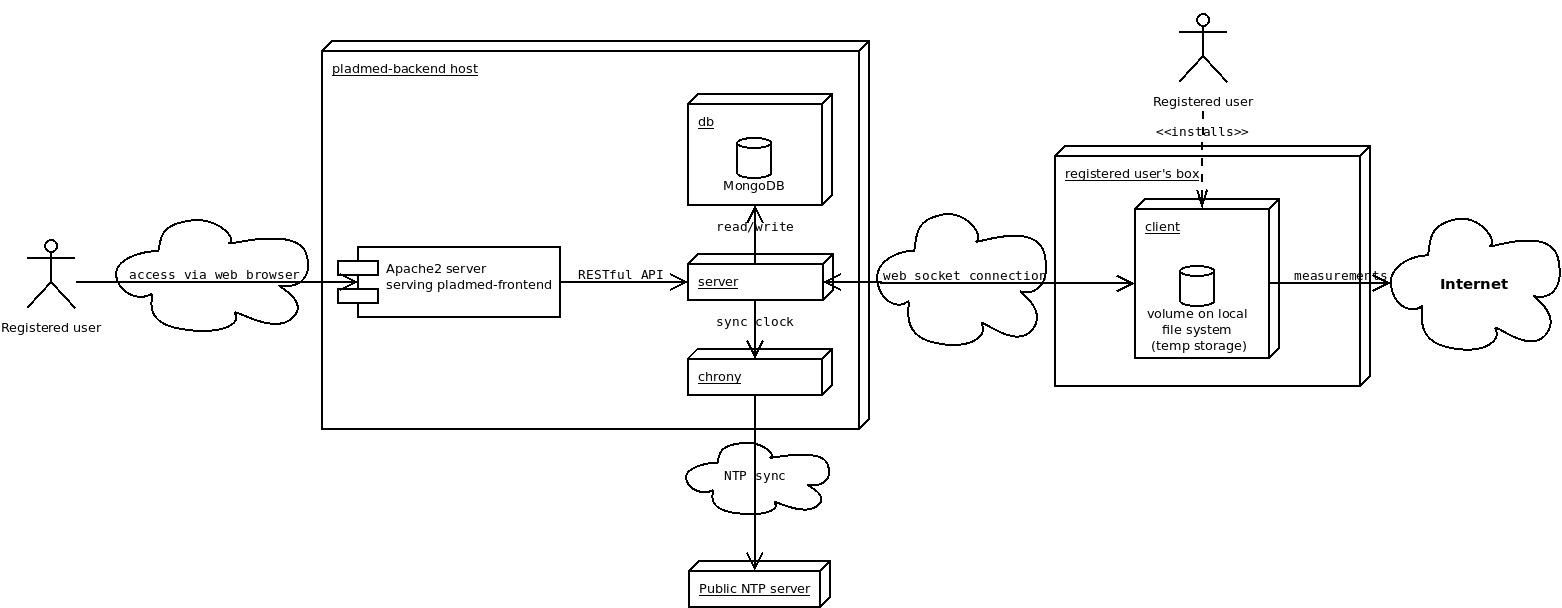
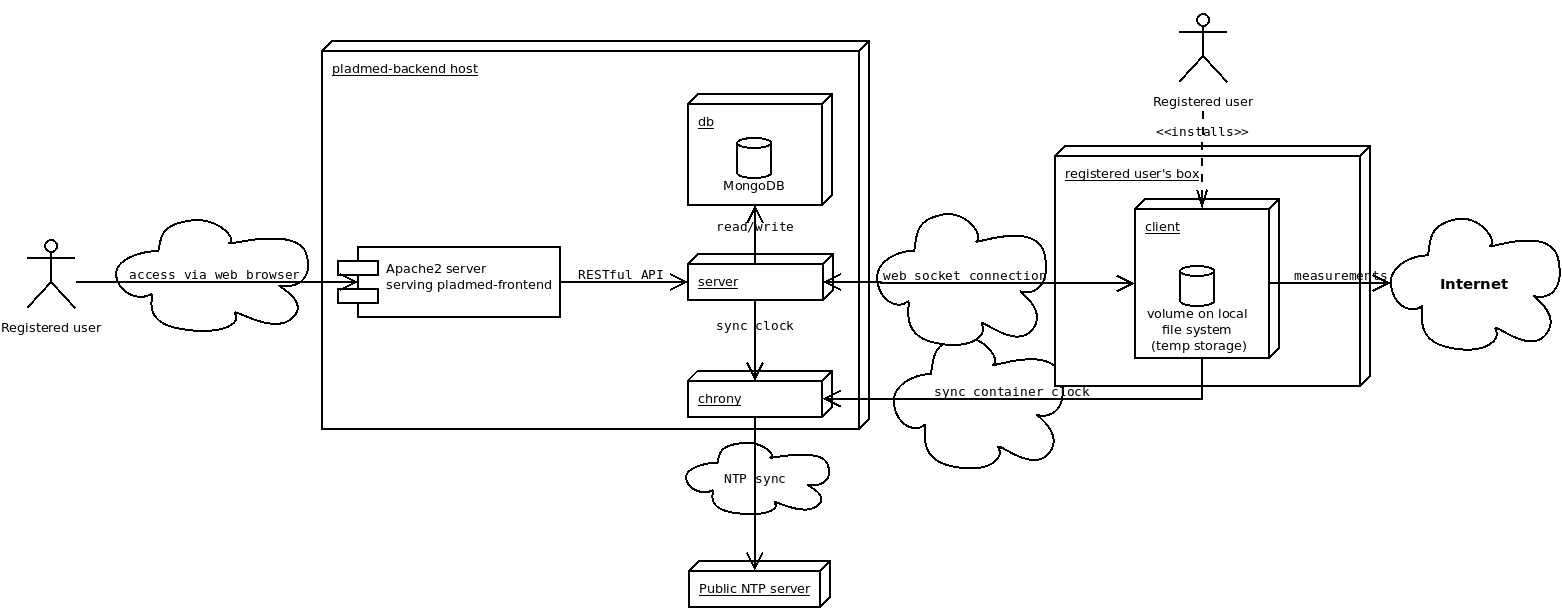
Improve deployment diagram

Changed region(s): [[0.4302, 0.5312, 0.5531, 0.6875], [0.5839, 0.625, 0.7068, 0.6875], [0.4609, 0.7812, 0.4917, 0.8125]]

diff --git a/README.md b/README.md
@@ -69,10 +69,15 @@ The servers communicate with the probes via web sockets; this simplifies communi
 
 ![Deployment diagram](docs/deployment-diagram.png)
 
-Firstly, users can run pladmed-frontend in their own browser via a web service. On the other hands, those same users, or different ones, can run their own probes by installing them in their system (see [the probe documentation](https://github.com/fedefunes96/pladmed-client)) for details.
+This diagram depicts the recommended deployment strategy for the system as a whole.
 
-In this case, "coordination servers" are those which run instances of pladmed-backend, coordinating timing and measurements. The clients will interact with it via the frontend (requesting measurements) or via probes (running measurements and uploading their results) to the servers.
-avés del frontend, o las sondas.
+Firstly, pladmed-frontend can be served via any web server (Apache2, nginx) so users can access it in their own browser across the Internet. On the other hand, those same users, or different ones, can run their own probes by installing them in their system (see [the probe documentation](https://github.com/fedefunes96/pladmed-client)) for details.
+
+Secondly, each server will have three docker containers:
+
+1. server: Runs a pladmed-backend instance, including a web server which will listen for HTTP requests from the frontend, and web socket connections from probes.
+2. db: Runs a MongoDB database instance for persisting users, operations and their results.
+3. chrony: Runs a Chrony client/server. Acts as an NTP client for pladmed-backend, and as an NTP server for probes.
 
 ##### Time synchronization
 
